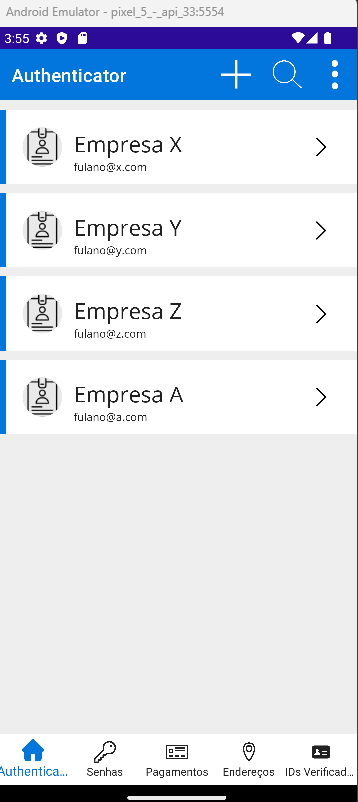
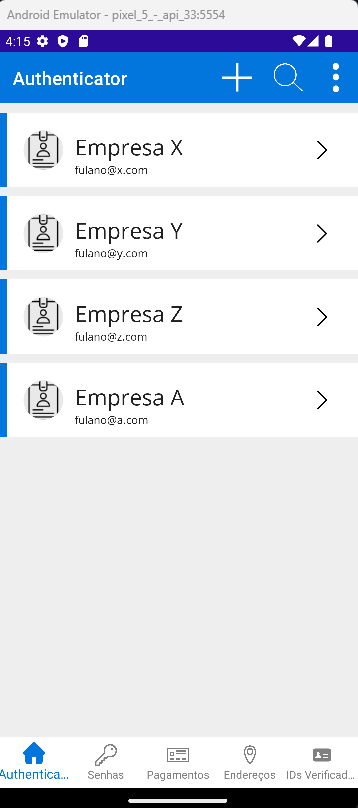
atuar cores de abas quando não selecionadas atualizar readme

diff --git a/AppShell.xaml b/AppShell.xaml
@@ -7,7 +7,8 @@
     xmlns:views="clr-namespace:Clone.Microsoft.Authenticator.Views"
     x:Name="appShellApp"
     BackgroundColor="#0376dd"
-    Shell.TabBarTitleColor="#0376dd">
+    Shell.TabBarTitleColor="#0376dd"
+    Shell.TabBarUnselectedColor="Gray">
 
 
 

diff --git a/Readme.md b/Readme.md
@@ -16,6 +16,6 @@
 ### iOS
 	😓 sem equipamento mac
 
-## ⚠ 1 . IMPORTANTE: Icones e resources de imagens foram pegos do google
-## ⚠ 2 . IMPORTANTE: Telas de senhas, pagamentos e endereços estavam repetindos os conteudos de acordo com fotos(prints) da tela do app
-## ⚠ 2 . IMPORTANTE: Clone só possui versão android por não possui mac
+### ⚠ 1 . IMPORTANTE: Icones e resources de imagens foram pegos do google
+### ⚠ 2 . IMPORTANTE: Telas de senhas, pagamentos e endereços estavam repetindos os conteudos de acordo com fotos(prints) da tela do app
+### ⚠ 2 . IMPORTANTE: Clone só possui versão android por não possui mac
